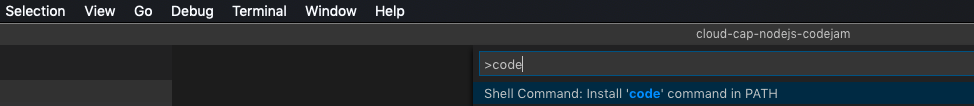
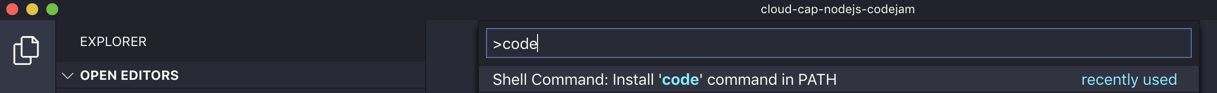
updated content due to new CDS Version & added some windows specific instructions
CDS Version 3.13.0 -> CDS Version 3.16.3:
 - no generic Data.hdbtabledata necessary anymore, will be generated for each table
 - added Windows Build Tools instructions based on previous CodeJam experiences

diff --git a/exercises/01/readme.md b/exercises/01/readme.md
@@ -63,11 +63,11 @@ This should eventually produce output similar to this:
 
 ```sh
 /user/.nvm/versions/node/v10.15.3/bin/cds -> /user/.nvm/versions/node/v10.15.3/lib/node_modules/@sap/cds/bin/cds.js
-+ @sap/cds@3.5.2
++ @sap/cds@3.16.3
 added 38 packages from 75 contributors in 6.015s
 ```
 
-Here you can see that the version of the `@sap/cds` package installed is 3.5.2. It may be that the version of `@sap/cds` that is installed when you do this exercise will be different (newer).
+Here you can see that the version of the `@sap/cds` package installed is 3.16.3. It may be that the version of `@sap/cds` that is installed when you do this exercise will be different (newer).
 
 ### 2. Install the CDS extension for VS Code
 
@@ -77,15 +77,23 @@ Extensions can be installed directly in VS Code from the extension marketplace, 
 
 :point_right: Go to the [Cloud section of the SAP Development Tools website](https://tools.hana.ondemand.com/#cloud) and find the "CDS Language Support for Visual Studio Code" section. Follow the instructions there to download and subsequently install the extension.
 
+To install the downloaded extension in VS Code have a look at the screenshot below: 
+
+![CDS Extension installation in VS Code](vscode-extension-import.png)
+
 When successfully installed, you should see the extension thus:
 
 ![CDS Language Support extension installed in VS Code](vscode-extension.png)
 
-To be able to open VS Code from the OS command line you need to add the installation path of VS Code to the environment variable PATH. There's an option to do this via the `Command Palette` in VS Code. 
+**For macOS users only:** To be able to open VS Code from the OS command line you need to add the installation path of VS Code to the environment variable PATH. There's an option to do this via the `Command Palette` in VS Code. 
 
 Open the `Command Palette` by pressing `Ctrl-Shift-P` (Windows) or ⇧⌘P (macOS) in VS Code. You can also open it via the menu bar: View -> Command Palette.
 
 ![Command Palette navigation in the menu bar](command-palette.png)
+
+Search for `code` and press Enter. 
+
+![search for code in the command palette](install-code-path.png)
 
 A success message for the process should then appear at the bottom right of the screen. 
 

diff --git a/exercises/09/readme.md b/exercises/09/readme.md
@@ -45,22 +45,54 @@ If there is an `app/` directory with content, it will serve that instead.
 
 This new directory contains all UI files and represents a new module in the context of what we're eventually going to deploy to the SAP Cloud Platform. It's necessary to add information to the project descriptor that holds information relating to this. The information to add describes will describe this new UI module.
 
-:point_right: Add this new module section to the project descriptor file `mta.yaml` next to, and in vertical alignment with, the other `modules` as follows:
+:point_right: Replace the content of your `mta.yaml` with the following lines. (Basically only the `bookshop-ui` module was added. The formatting of `yaml` files has to be done very exactly, so the whole content has been replaced for the sake of simplicity)
 ```
-- name: bookshop-ui
-  type: nodejs
-  path: app
-  parameters:
-    memory: 256M
-    disk-quota: 256M
-  requires:
-    - name: srv_api
-      group: destinations
-      properties:
-        forwardAuthToken: true
-        strictSSL: false
-        name: srv_api
-        url: ~{url}
+_schema-version: 2.0.0
+ID: bookshop
+version: 1.0.0
+modules:
+  - name: bookshop-db
+    type: hdb
+    path: db
+    parameters:
+      memory: 256M
+      disk-quota: 256M
+    requires:
+      - name: bookshop-db-hdi-container
+  - name: bookshop-srv
+    type: nodejs
+    path: srv
+    parameters:
+      memory: 512M
+      disk-quota: 256M
+    provides:
+      - name: srv_api
+        properties:
+          url: ${default-url}
+    requires:
+      - name: bookshop-db-hdi-container
+  - name: bookshop-ui
+    type: nodejs
+    path: app
+    parameters:
+      memory: 256M
+      disk-quota: 256M
+    requires:
+      - name: srv_api
+        group: destinations
+        properties: 
+          forwardAuthToken: true
+          strictSSL: true
+          name: srv_api
+          url: ~{url}
+resources:
+  - name: bookshop-db-hdi-container
+    type: com.sap.xs.hdi-container
+    properties:
+      hdi-container-name: ${service-name}
+    parameters:
+      service: hanatrial
+
 ```
 
 

diff --git a/exercises/02/readme.md b/exercises/02/readme.md
@@ -14,7 +14,7 @@ After completing these steps you'll be familiar with how you can use the CDS com
 
 ### 1. Initialize a new CAP project
 
-Before you start creating a new project we recommend that you create a dedicated directory for this CodeJam within your users directory instead of any system directories (e.g. DO NOT work in C:\Windows\System32).
+Before you start creating a new project we recommend that you create a dedicated directory for this CodeJam within your users directory (C:\Users\YourUser) instead of any system directories (e.g. DO NOT work in C:\Windows\System32).
 
 The first thing to do in any new CAP based project is to initialize that project by indirectly creating a directory with various basic files in it. This can be achieved with the CDS command line tool `cds` which you installed in [exercise 01](../01/).
 
@@ -111,7 +111,7 @@ If this approach is not available to you, simply start VS Code through your oper
 
 ### 3. Explore the initialized project structure
 
-The skeleton project that has been initialized is visible in VS Code. This is what it should look like (it shows also the `db/data-model.cds` file opened, which you can do manually):
+The skeleton project that has been initialized is visible in VS Code. This is what it should look like. 
 
 ![initialized project in VS Code](initialized-project-in-vscode.png)
 
@@ -149,7 +149,7 @@ entity Books {
 using my.bookshop as my from '../db/data-model';
 
 service CatalogService {
-    entity Books as projection on my.Books;
+    @readonly entity Books as projection on my.Books;
 }
 ````
 

diff --git a/exercises/04/readme.md b/exercises/04/readme.md
@@ -49,48 +49,6 @@ The `.hdiconfig` file specifies the configuration of the HANA Deployment Infrast
 "plugin_version": "12.1.0",
 ```
 
-While SQLite automatically imports the CSV files, we need to provide more information for HANA to import those files. These import instructions are encoded in a `.hdbtabledata` file and will be read during the deployment process to the Cloud Foundry environment.
-
- :point_right: Create a new `db/csv/Data.hdbtabledata` file with the following content to specify which data should be imported into the HANA tables:
-
-```
-{
-   "format_version": 1,
-   "imports": [
-       {
-           "target_table": "MY_BOOKSHOP_AUTHORS",
-           "source_data": {
-           "data_type": "CSV",
-               "file_name": "my.bookshop-Authors.csv",
-               "has_header": true
-           },
-           "import_settings": {
-           "import_columns": [
-                   "ID",
-                   "NAME"
-               ]
-           }
-       },
-       {
-           "target_table": "MY_BOOKSHOP_BOOKS",
-           "source_data": {
-           "data_type": "CSV",
-               "file_name": "my.bookshop-Books.csv",
-               "has_header": true
-           },
-           "import_settings": {
-           "import_columns": [
-                   "ID",
-                   "TITLE",
-                   "AUTHOR_ID",
-                   "STOCK"
-               ]
-           }
-       }
-   ]
-}
-```
-
 ### 4. Restart the service
 
 :point_right: Restart the service thus:

diff --git a/prerequisites.md b/prerequisites.md
@@ -35,6 +35,10 @@ Before the CodeJam day, participants must ensure they have the following install
     (Details: <https://github.com/cloudfoundry-incubator/multiapps-cli-plugin>)
 - Make : <https://www.gnu.org/software/make/>
 - SQLite : <https://sqlite.org/index.html>
+- Windows Build Tools (for Windows User only): 
+    ```bash
+    npm install -g windows-build-tools@4.0.0
+    ````
 
 _Note: If you're running Windows, it's likely that you won't have `SQLite` or `make` installed. In this case, we recommend that you use the [Chocolatey](https://chocolatey.org/) package manager to install both ([SQLite](https://chocolatey.org/packages/sqlite) and [make](https://chocolatey.org/packages/make)) - see below._
 

diff --git a/exercises/10/readme.md b/exercises/10/readme.md
@@ -39,7 +39,7 @@ You might have noticed that there is no module descriptor for the `srv module` d
     "name": "project-srv",
     "version": "1.0.0",
     "dependencies": {
-        "@sap/cds": "^3.13.0",
+        "@sap/cds": "^3.16.3",
         "express": "^4.17.1",
         "@sap/hana-client": "^2.4.144"
     },
